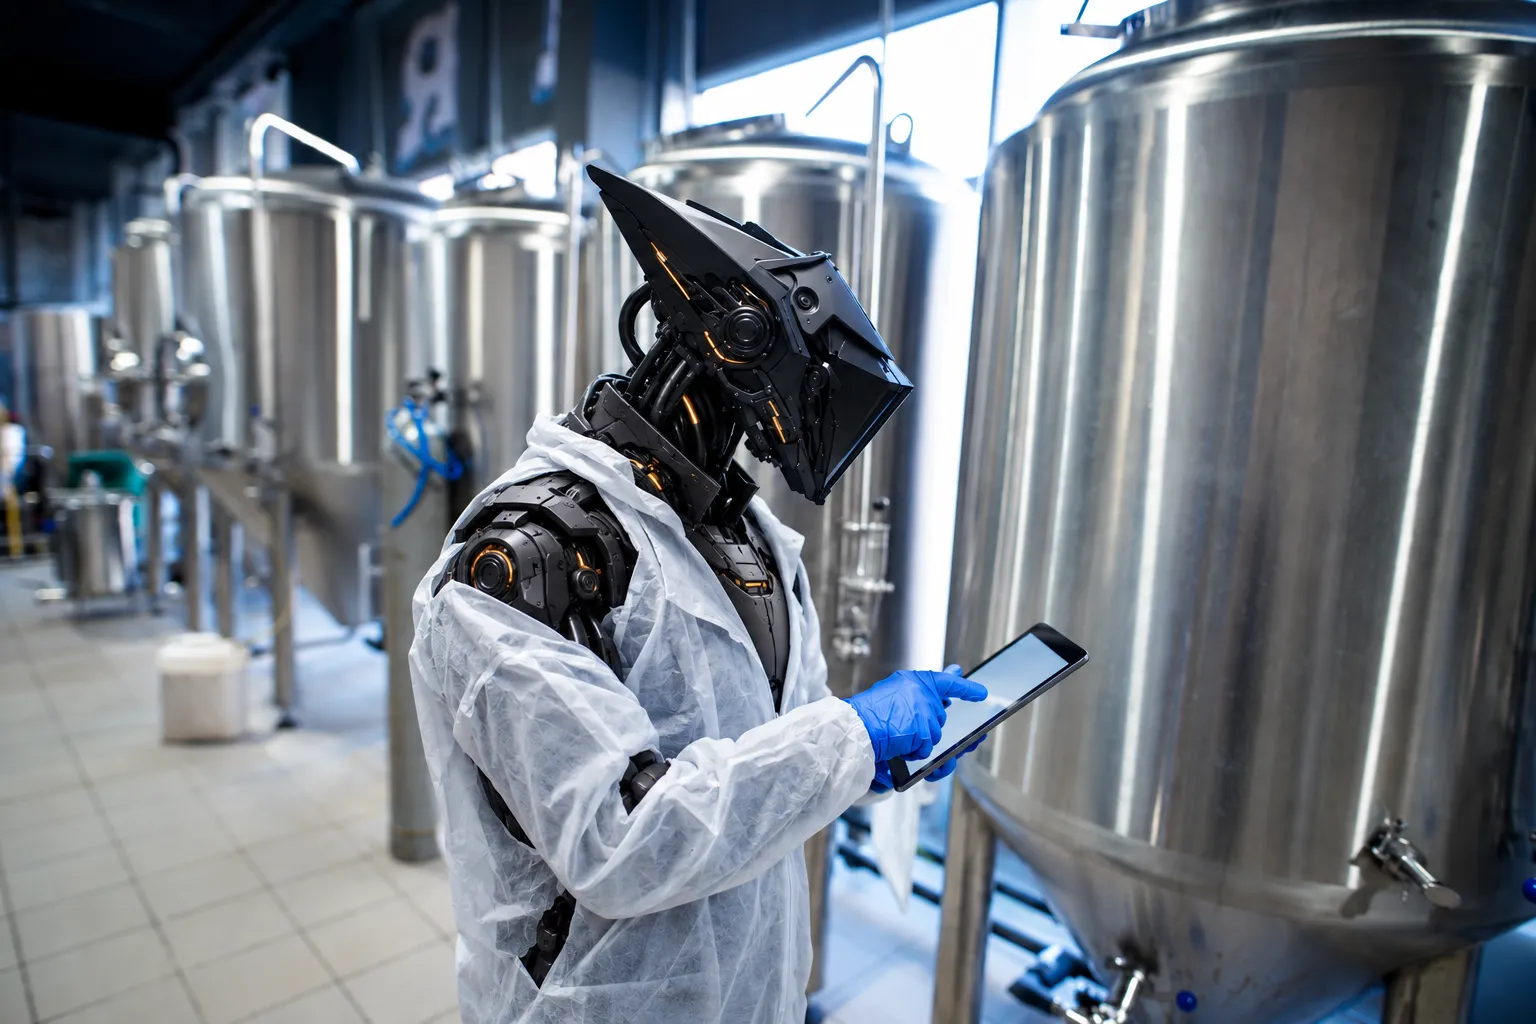
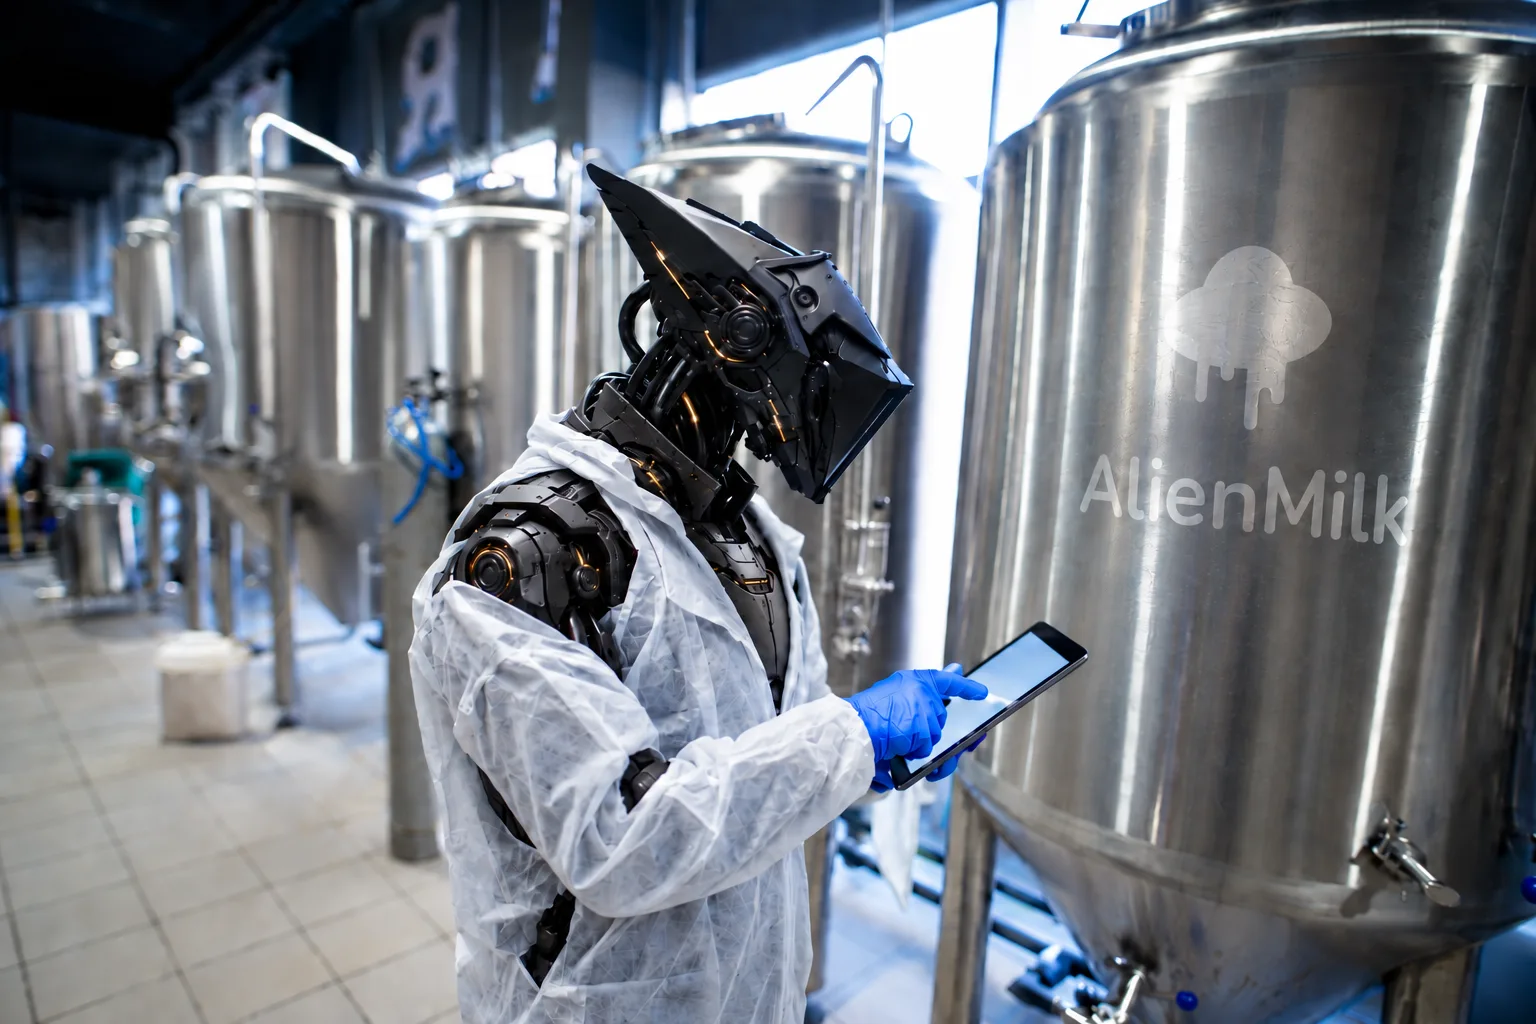
feat(about): add team credentials, signed note and refine route and field copy
- Team block: signed note in the hero note format, new portrait without stroke or
  shade, Cayi's coral credential with a minimilk watermark and an agents tag.
- Route chain without its title, larger and centred, with a slightly thicker filament.
- New custody photo; smaller photo tags; field copy centred between label and band.

diff --git a/reto-eventos-frontend/src/app/pages/about/about-page.component.css b/reto-eventos-frontend/src/app/pages/about/about-page.component.css
@@ -336,7 +336,7 @@ h2 em {
   display: grid;
   gap: 0.2rem;
   max-width: 15.5rem;
-  padding: 0.45rem 1.6rem 0.5rem 0.6rem;
+  padding: 0.38rem 1.3rem 0.42rem 0.5rem;
   border-left: 2px solid var(--coral);
   color: rgba(247, 248, 249, 0.78);
   background: linear-gradient(
@@ -623,7 +623,7 @@ h2 em {
   position: absolute;
   z-index: 2;
   display: grid;
-  gap: 0.2rem;
+  gap: 0.15rem;
   margin: 0;
   padding: 0.45rem 1.6rem 0.5rem 0.6rem;
   border-left: 2px solid var(--coral);
@@ -635,7 +635,7 @@ h2 em {
     rgba(13, 21, 30, 0) 100%
   );
   font:
-    800 0.5rem / 1.45 'Nunito',
+    800 0.44rem / 1.45 'Nunito',
     sans-serif;
   letter-spacing: 0.13em;
   text-transform: uppercase;
@@ -643,7 +643,7 @@ h2 em {
 
 .us-station-tag-id {
   color: var(--light);
-  font-size: 0.58rem;
+  font-size: 0.52rem;
 }
 
 /* La ficha de la foto de la 02, arriba a la derecha, sobre el organismo: a la altura de la cabeza
@@ -673,17 +673,16 @@ h2 em {
   align-self: start;
 }
 
-/* En escritorio el texto hace simetría con el titular: empieza en la línea de «EL» y acaba en la de
-   «FORMA.». La columna mide el alto de tinta del titular (5,26 veces su cuerpo) y el texto escala
-   dentro hasta llenarlo (appFitBox). A la izquierda arranca con aire tras la placa: el hueco de la
-   rejilla también es claro, así que se descuenta. */
+/* En escritorio el texto ocupa el lienzo claro que queda entre el rótulo y la banda negra de las
+   funciones, con el mismo aire arriba y abajo, y escala dentro hasta llenarlo (appFitBox). Abajo se
+   descuenta lo que las funciones suben sobre la rejilla y el aire de la banda. A la izquierda arranca
+   con aire tras la placa: el hueco de la rejilla también es claro, así que se descuenta. */
 @media (min-width: 1001px) {
   .us-definition-copy {
-    height: calc(var(--title-size) * 5.257);
-    /* Aire arriba: el primer párrafo arranca algo por debajo de «EL». */
-    padding-top: calc(var(--title-size) * 0.35);
-    margin: calc(var(--plate-pad) * 0.35 + var(--title-size) * 0.06) 0 0
-      calc(clamp(1.5rem, 3.7vw, 4rem) - clamp(2rem, 6vw, 6rem));
+    align-self: stretch;
+    height: auto;
+    padding-block: clamp(2rem, 6svh, 4rem);
+    margin: 0 0 calc(4.75rem + 1.5rem) calc(clamp(1.5rem, 3.7vw, 4rem) - clamp(2rem, 6vw, 6rem));
   }
 
   /* Lo que sobra al escalar va arriba y abajo, a partes iguales: los párrafos no se separan. */
@@ -930,20 +929,12 @@ h2 em {
   font-size: 1.12em;
 }
 
-/* El recorrido de una muestra cruza la sección de lado a lado, del lienzo claro al recuadro oscuro:
-   cápsulas, como células, unidas por un filamento que se estira hasta llenar el ancho. */
-.us-chain-title {
-  font-family: 'Nunito', sans-serif;
-  font-size: 0.62em;
-  font-weight: 800;
-  letter-spacing: 0.14em;
-  text-transform: uppercase;
-}
-
-/* El recorrido va en su propio recuadro oscuro, que en escritorio se une al de la derecha. */
+/* El recorrido de una muestra cruza la sección de lado a lado en su propio recuadro oscuro, que en
+   escritorio se une al de la derecha: cápsulas, como células, unidas por un filamento que se estira
+   hasta llenar el ancho, centradas en el recuadro. */
 .us-chain {
   position: relative;
-  padding: 1.5em 1.6em 1.7em;
+  padding: 1.6em 0.5em 1.6em 2.3em;
 }
 
 .us-chain::before {
@@ -955,11 +946,6 @@ h2 em {
   background: var(--night);
 }
 
-.us-chain-title {
-  margin: 0 0 1.3em;
-  color: var(--light-muted);
-}
-
 .us-chain ol {
   display: flex;
   flex-wrap: wrap;
@@ -967,7 +953,7 @@ h2 em {
   row-gap: 0.9em;
   margin: 0;
   padding: 0;
-  font-size: 0.72em;
+  font-size: 0.78em;
   list-style: none;
 }
 
@@ -983,9 +969,9 @@ h2 em {
 
 .us-chain li:not(:last-child)::after {
   content: '';
-  flex: 1 1 0.9em;
-  min-width: 0.9em;
-  height: 1px;
+  flex: 1 1 0.6em;
+  min-width: 0.6em;
+  height: 1.5px;
   background: var(--light-rule);
 }
 
@@ -994,7 +980,7 @@ h2 em {
   flex: none;
   align-items: center;
   gap: 0.4em;
-  padding: 0.38em 0.85em 0.38em 0.65em;
+  padding: 0.4em 0.7em 0.4em 0.55em;
   border: 1px solid rgba(33, 30, 36, 0.24);
   border-radius: 999px;
   color: var(--ink);
@@ -1036,25 +1022,26 @@ h2 em {
   object-position: 46% 50%;
 }
 
-/* El equipo, entre la 02 y la 03, sobre la textura: una declaración en claro, centrada y a tamaño
-   de entradilla, y debajo el retrato en un marco con trazo blanco. */
+/* El equipo, entre la 02 y la 03, sobre la textura: una nota firmada como la de la cabecera, y
+   debajo el retrato en un marco redondeado, con sus fichas. */
 .us-team {
   display: flex;
   flex-direction: column;
   align-items: center;
-  gap: clamp(3rem, 7vw, 6rem);
-  padding-block: clamp(4rem, 10vw, 8rem) clamp(3rem, 6vw, 5rem);
+  /* El mismo aire encima y debajo de la frase. */
+  gap: clamp(4.5rem, 9vw, 9rem);
+  padding-block: clamp(4.5rem, 9vw, 9rem) clamp(3rem, 6vw, 5rem);
 }
 
-.us-team-statement {
-  max-width: 46rem;
+/* La nota no lleva aquí el margen de la cabecera: el aire lo da la sección, igual arriba y abajo. */
+.us-hero-note.us-team-statement {
+  width: min(100%, 40rem);
   margin: 0;
-  color: var(--light);
-  font:
-    500 clamp(1.3rem, 2vw, 2rem) / 1.45 'Nunito',
-    sans-serif;
-  text-align: center;
-  text-wrap: balance;
+}
+
+/* La firma ya abre con su raya: sin el trazo de la de la cabecera. */
+.us-team-statement .us-hero-signature::before {
+  content: none;
 }
 
 /* El marco ocupa el ancho de los lienzos y la foto lo llena entera. */
@@ -1063,22 +1050,84 @@ h2 em {
   width: 100%;
   margin: 0;
   overflow: hidden;
-  border: 2px solid var(--light);
-  border-radius: var(--corner) 0.45rem var(--corner) 0.45rem;
+  border-radius: calc(var(--corner) * 1.6) 0.45rem calc(var(--corner) * 1.6) 0.45rem;
 }
 
-/* El degradado negro sube desde el fondo, por encima de la foto. */
-.us-team-frame::after {
+/* La ficha del retrato, como las de las fotos de la 02: junto a Cayi, a su derecha, sobre el traje
+   del androide de al lado. */
+.us-team-frame .us-team-tag {
+  position: absolute;
+  bottom: 30%;
+  left: 62.5%;
+  margin: 0;
+}
+
+/* La credencial de Cayi, como la acreditación de un museo: una tarjeta coral con las esquinas de la
+   web, el nombre en la letra de los titulares, el cargo debajo con la minimilk y la ubicación bajo
+   un filete. Todo en un granate cálido. */
+.us-team-frame .us-ceo-tag {
+  position: absolute;
+  display: grid;
+  overflow: hidden;
+  isolation: isolate;
+  margin: 0;
+  padding: 0.95rem 0.95rem 0.65rem 0.8rem;
+  border-radius: var(--seam) 0.35rem var(--seam) 0.35rem;
+  color: #5c1e28;
+  background: rgba(255, 127, 127, 0.94);
+  box-shadow: 0 14px 30px rgba(13, 21, 30, 0.28);
+  font-family: 'Nunito', sans-serif;
+  text-transform: uppercase;
+}
+
+/* De fondo, una minimilk grande, oscura y tenue, como una marca de agua, que se sale por la esquina. */
+.us-team-frame .us-ceo-tag::before {
   content: '';
   position: absolute;
-  inset: 0;
-  background: linear-gradient(
-    to top,
-    rgba(5, 13, 22, 0.7),
-    rgba(5, 13, 22, 0.25) 14%,
-    rgba(5, 13, 22, 0) 30%
-  );
-  pointer-events: none;
+  top: -0.8rem;
+  right: -1.4rem;
+  z-index: -1;
+  width: 6rem;
+  aspect-ratio: 1;
+  background: #5c1e28;
+  mask: url('/alienmilk-ufo.svg') center / 100% 100% no-repeat;
+  opacity: 0.12;
+  rotate: -12deg;
+}
+
+.us-ceo-role {
+  display: inline-flex;
+  align-items: center;
+  gap: 0.45em;
+  margin-bottom: 0.5rem;
+  font-size: 0.58rem;
+  font-weight: 800;
+  letter-spacing: 0.16em;
+}
+
+.us-ceo-name {
+  margin: 0 0 0.3rem;
+  font: 700 1.95rem / 0.85 var(--condensed);
+  letter-spacing: 0.04em;
+  transform: scaleY(0.78);
+  transform-origin: left center;
+}
+
+.us-ceo-place {
+  padding-top: 0.4rem;
+  border-top: 1px solid rgba(92, 30, 40, 0.3);
+  color: rgba(92, 30, 40, 0.82);
+  font-size: 0.44rem;
+  font-weight: 800;
+  letter-spacing: 0.13em;
+  line-height: 1.6;
+}
+
+/* La de los agentes, abajo a la izquierda, sobre el traje del primero. */
+.us-team-frame .us-agents-tag {
+  bottom: 9%;
+  left: 3%;
+  max-width: 14rem;
 }
 
 .us-team-photo {
@@ -1401,6 +1450,25 @@ h2 em {
     max-width: none;
     margin: 0.9rem 1rem 1rem;
     background: none;
+  }
+
+  /* La foto del equipo es pequeña: la ficha va debajo, dentro del marco, para no tapar a nadie. */
+  .us-team-frame {
+    background: var(--night);
+  }
+
+  .us-team-frame .us-team-tag {
+    position: static;
+    max-width: none;
+    margin: 0.75rem 1rem 0.9rem;
+    background: none;
+  }
+
+  .us-team-frame .us-ceo-tag {
+    position: static;
+    width: fit-content;
+    margin: 1rem 1rem 0.25rem;
+    background: rgba(255, 127, 127, 0.94);
   }
 
   /* En columna, en la invitación la portada va debajo del texto, apoyada en el pie de la tarjeta. */

diff --git a/reto-eventos-frontend/src/app/pages/about/about-page.component.html b/reto-eventos-frontend/src/app/pages/about/about-page.component.html
@@ -182,7 +182,6 @@
         <!-- El recorrido de una muestra cruza la sección de lado a lado, en un recuadro oscuro unido al
              de la derecha: cápsulas, como células, unidas por un filamento. -->
         <div class="us-chain">
-          <p class="us-chain-title">Recorrido de una muestra</p>
           <ol>
             <li>
               <span><b>01</b> Localización</span>
@@ -247,14 +246,19 @@
   </section>
 
   <!-- Entre la 02 y la 03, sobre la textura: una declaración del equipo, centrada, y debajo su
-       retrato en un marco blanco. -->
+       retrato, con su ficha. -->
   <section class="us-team" aria-labelledby="us-team-title">
     <h2 id="us-team-title" class="visually-hidden">Nuestro equipo</h2>
-    <p class="us-team-statement">
-      Detrás de cada sesión hay un equipo que localiza, recoge, evalúa y sirve. Trabajamos en turnos
-      que no siempre coinciden con su huso horario, pero con un compromiso que no cambia: que cada
-      muestra llegue a la mesa en las mejores condiciones.
-    </p>
+    <!-- Nota firmada, con el mismo formato que la de la cabecera. -->
+    <figure class="us-hero-note us-team-statement">
+      <p class="us-hero-lead">
+        Creemos que el universo todavía guarda demasiadas <b>sensaciones sin descubrir</b>.
+        <strong>AlienMilk</strong> existe para <b>encontrarlas</b>, <b>preservarlas</b> y llevarlas
+        hasta la mesa. Detrás de esa búsqueda hay personas y sistemas que comparten una misma
+        curiosidad: averiguar <b>qué más queda por probar</b>.
+      </p>
+      <figcaption class="us-hero-signature">— Cayi, CEO &amp; Founder</figcaption>
+    </figure>
     <figure class="us-team-frame">
       <span class="us-team-photo">
         <img
@@ -265,6 +269,18 @@
           loading="lazy"
         />
       </span>
+      <!-- La credencial de Cayi, como la acreditación de un museo. -->
+      <figcaption class="us-team-tag us-ceo-tag">
+        <span class="us-ceo-name">El Cayi</span>
+        <span class="us-ceo-role"
+          ><span class="eyebrow-icon" aria-hidden="true"></span>CEO y fundadora</span
+        >
+        <span class="us-ceo-place">Sede central · Estación Meridiana<br />Gliese 667 Cc</span>
+      </figcaption>
+      <p class="us-station-tag us-team-tag us-agents-tag">
+        <span class="us-station-tag-id">Synthetic Executive Agents</span>
+        <span>Physical representatives of AlienMilk’s IEAs.</span>
+      </p>
     </figure>
   </section>
 

diff --git a/docs/merge-notes/clos.md b/docs/merge-notes/clos.md
@@ -33,9 +33,9 @@ Esta tanda parte de la versión de Nosotros de `mini-codex` que ya está en `mai
 - **02:** el recorrido va en su propio recuadro oscuro, unido al de la derecha. El recuadro lleva
   dos fotos: el androide granjero arriba (`alienmilk-about-farmer.webp`) y el androide de la
   custodia abajo (`alienmilk-about-custody.webp`). La 02 acaba con esquinas propias.
-- **Equipo (nuevo, entre la 02 y la 03):** frase centrada sobre la textura y el retrato del equipo
-  (`alienmilk-about-team.webp`) en un marco blanco al ancho de los lienzos, con una minimilk coral
-  en la taza. La 03 empieza como lienzo aparte.
+- **Equipo (nuevo, entre la 02 y la 03):** nota firmada con el formato de la de la cabecera y el
+  retrato del equipo (`alienmilk-about-team.webp`) al ancho de los lienzos, con la credencial coral
+  de Cayi y la ficha de los agentes. La 03 empieza como lienzo aparte.
 - **Invitación final:** la tarjeta oscura lleva a la izquierda la portada de la 01 con el busto
   (`alienmilk-about-android.webp`).
 - Esquinas de la unión 01/02 más pronunciadas (`--seam`).
